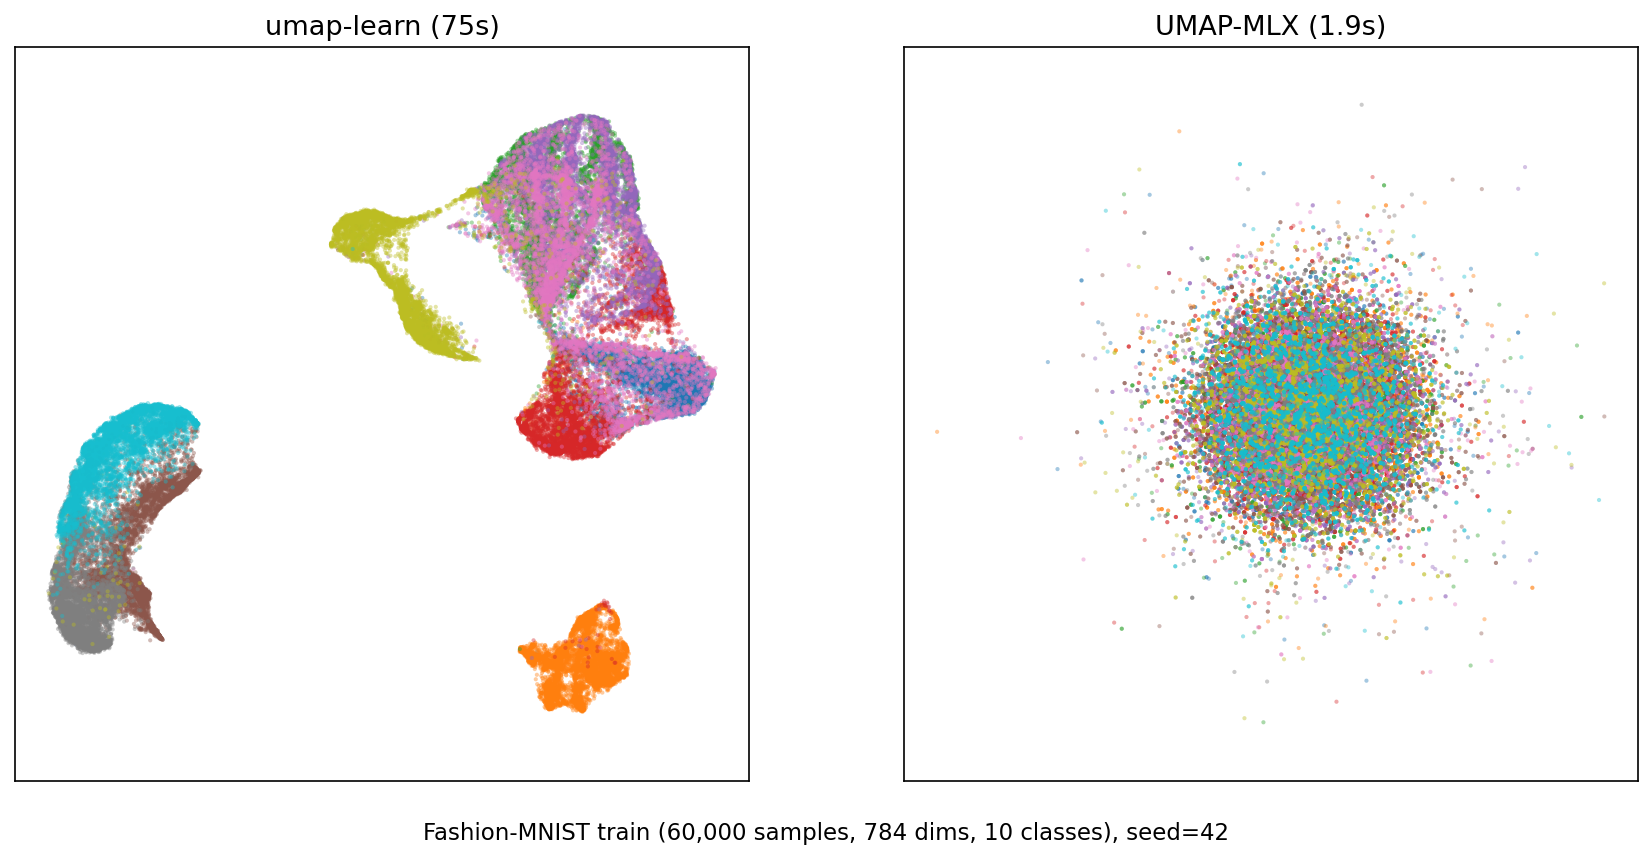
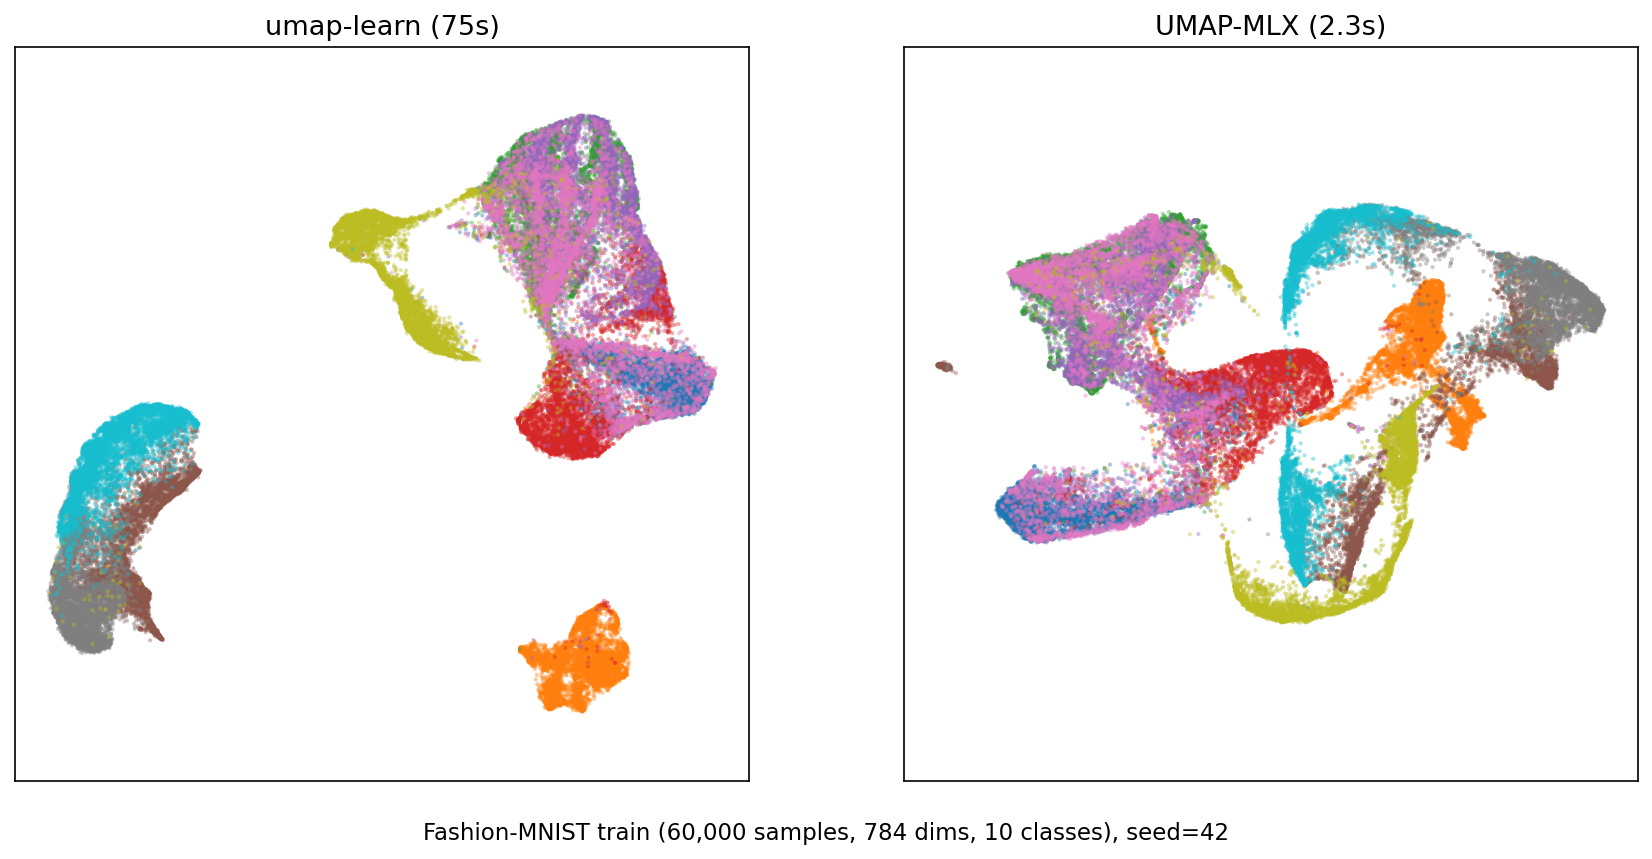
fix vectorized binary search: sigma direction was inverted
too_high (sum > target) means sigma too large, should decrease
was incorrectly doubling sigma on too_high
weights now correct: [0.005, 1.0] instead of all 1.0
trustworthiness 0.96, Fashion-MNIST 60K in 2.3s

Changed region(s): [[0.5866, 0.2119, 0.9879, 0.7264], [0.8027, 0.0, 0.8335, 0.0303], [0.5557, 0.4237, 0.5866, 0.454]]

diff --git a/umap_mlx/umap.py b/umap_mlx/umap.py
@@ -163,17 +163,19 @@ class UMAP:
             vals_sum = vals.sum(axis=1)
 
             converged = np.abs(vals_sum - target) < 1e-5
-            too_high = vals_sum > target
-            too_low = ~too_high & ~converged
+            # too_high means sigma is too large (too many effective neighbors)
+            too_high = (vals_sum > target) & ~converged
+            # too_low means sigma is too small
+            too_low = (vals_sum < target) & ~converged
 
-            # Update bounds
-            lo = np.where(too_high & ~converged, sigma, lo)
-            new_hi_sigma = (lo + hi) / 2
-            hi_capped = np.where(hi >= 1e3, sigma * 2, new_hi_sigma)
-            hi = np.where(too_low, sigma, hi)
+            # When sum too high: reduce sigma (set hi = sigma)
+            hi = np.where(too_high, sigma, hi)
+            # When sum too low: increase sigma (set lo = sigma)
+            lo = np.where(too_low, sigma, lo)
 
-            sigma = np.where(too_high & ~converged, np.where(hi < 1e3, (sigma + hi) / 2, sigma * 2), sigma)
-            sigma = np.where(too_low, (sigma + lo) / 2, sigma)
+            # New sigma: midpoint or double if boundary not yet found
+            sigma = np.where(too_high, (lo + sigma) / 2, sigma)
+            sigma = np.where(too_low, np.where(hi >= 1e3, sigma * 2, (sigma + hi) / 2), sigma)
 
             if converged.all():
                 break
